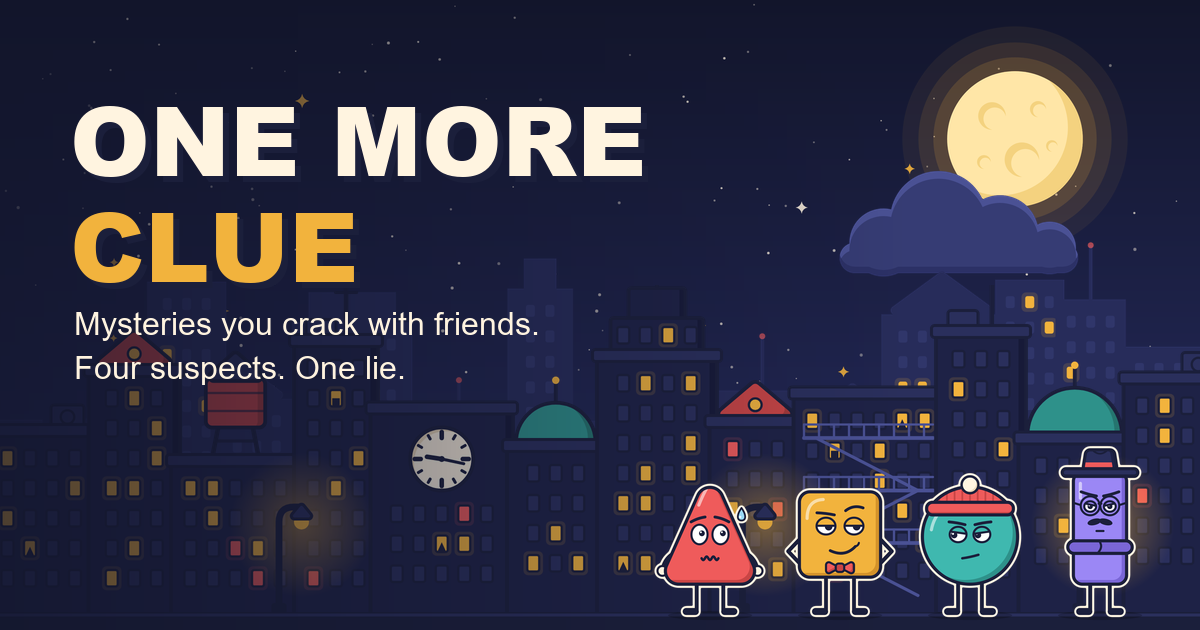
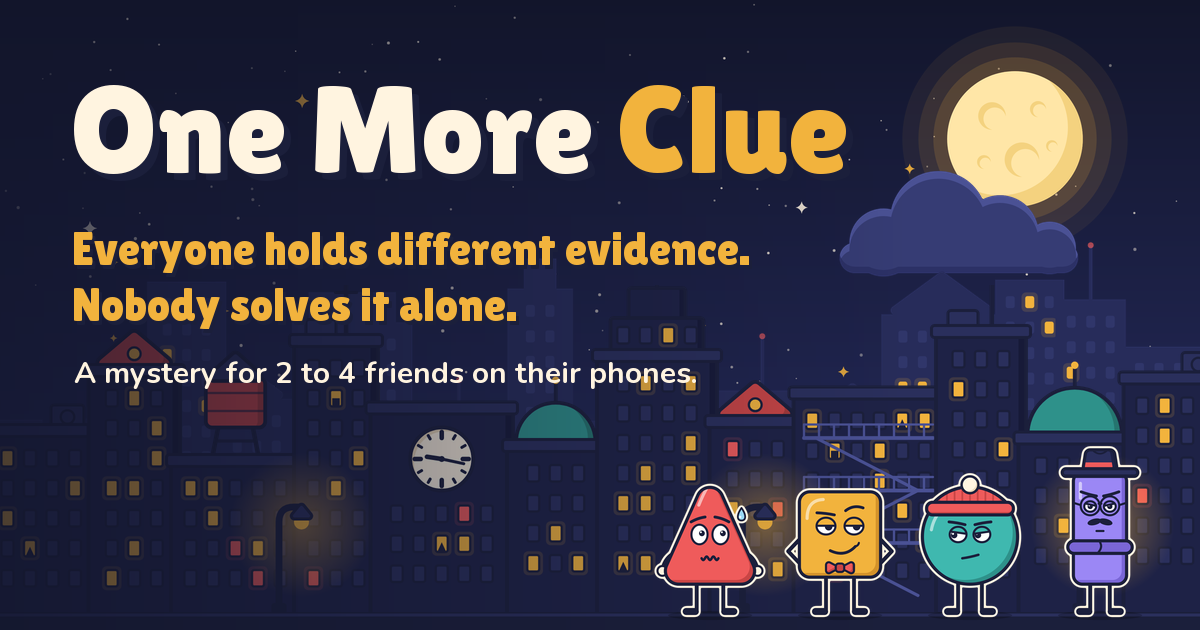
Refresh the share card, guide solo hosts, keep crawlers out of rooms
- Link-preview card: drawn in the site's own fonts (Lilita One, Nunito)
  with the current hook instead of a system font and the old tagline.
- "Play Case 001 free" now says it opens a room and to send the link
  to 1 to 3 friends; in the lobby, a host on their own is told the case
  needs a friend and offered the 30-second warm-up in a new tab.
- robots.txt disallows /new/ (its script opens a real room) and /r/.
- Phones: the moon sits small near the top instead of behind the
  tagline; header, footer, narrator, sound and camera-demo buttons are
  at least 44px tall (in px, since the root font shrinks on phones).

Changed region(s): [[0.0617, 0.1206, 0.7092, 0.3016], [0.0617, 0.3317, 0.6475, 0.5429], [0.0617, 0.573, 0.5858, 0.6333]]

diff --git a/src/components/hero/Hero.tsx b/src/components/hero/Hero.tsx
@@ -45,10 +45,14 @@ export function Hero() {
             ))}
           </ul>
 
-          <PopIn delay={1.5} className="mt-7 flex flex-wrap gap-4">
-            <Magnetic>
-              <ButtonLink href={cta.href}>{gameOpen() ? "Play Case 001 free" : cta.label}</ButtonLink>
-            </Magnetic>
+          <PopIn delay={1.5} className="mt-7 flex flex-wrap items-start gap-4">
+            {/* The note sits under the play button itself, so on phones it can't read as the warm-up's. */}
+            <div className="flex flex-col items-start gap-2">
+              <Magnetic>
+                <ButtonLink href={cta.href}>{gameOpen() ? "Play Case 001 free" : cta.label}</ButtonLink>
+              </Magnetic>
+              {gameOpen() && <p className="pl-2 text-sm font-bold text-cream/75 [text-shadow:0_2px_8px_var(--color-night)]">{hero.ctaNote}</p>}
+            </div>
             <Magnetic>
               <ButtonLink href="#mini-case" variant="secondary">
                 Try a 30-second case

diff --git a/src/components/hero/HeroFilm.tsx b/src/components/hero/HeroFilm.tsx
@@ -132,7 +132,7 @@ export function HeroFilm({ video, poster, label, className }: Props) {
         type="button"
         onClick={() => (muted || ended || waiting ? fromTheTop(true) : hush())}
         aria-pressed={!muted && !ended}
-        className="mx-auto mt-5 flex animate-rise-in items-center gap-2 rounded-full border-[0.1875rem] border-ink bg-cream px-4 py-2 text-sm font-extrabold whitespace-nowrap text-ink shadow-pop-sm transition-transform [animation-delay:1.4s] hover:-translate-y-0.5"
+        className="mx-auto mt-5 flex min-h-[44px] animate-rise-in items-center gap-2 rounded-full border-[0.1875rem] border-ink bg-cream px-4 py-2 text-sm font-extrabold whitespace-nowrap text-ink shadow-pop-sm transition-transform [animation-delay:1.4s] hover:-translate-y-0.5"
       >
         <Icon name={muted || ended ? "speakerOff" : "speaker"} className="size-4" />
         {muted || ended || waiting ? "Hear the narrator" : "Mute"}

diff --git a/src/components/home/SoundToggle.tsx b/src/components/home/SoundToggle.tsx
@@ -27,7 +27,7 @@ export function SoundToggle() {
       onClick={() => setSoundEnabled(!on)}
       aria-pressed={on}
       aria-label={on ? "Turn sound off" : "Turn sound on"}
-      className="fixed right-4 bottom-4 z-50 flex items-center gap-2 rounded-full border-[0.1875rem] border-ink bg-night/85 px-3 py-2 text-sm font-extrabold text-cream shadow-pop-sm backdrop-blur"
+      className="fixed right-4 bottom-4 z-50 flex min-h-[44px] min-w-[44px] items-center justify-center gap-2 rounded-full border-[0.1875rem] border-ink bg-night/85 px-3 py-2 text-sm font-extrabold text-cream shadow-pop-sm backdrop-blur"
       initial={{ opacity: 0, scale: 0.6 }}
       animate={{ opacity: 1, scale: 1 }}
       transition={{ delay: 2.4, type: "spring", stiffness: 260, damping: 18 }}

diff --git a/src/components/game/Lobby.tsx b/src/components/game/Lobby.tsx
@@ -148,6 +148,15 @@ export function Lobby({ view, act, busy }: { view: PlayerView; act: Act; busy: b
             </Button>
           </div>
         </div>
+        {isHost && count === 1 && (
+          <p className="mt-4 text-sm font-bold text-cream/70">
+            You need at least one friend for this case. Send them the link, and they&apos;ll appear below when they join. While you wait,{" "}
+            <a href="/#mini-case" target="_blank" rel="noopener" className="text-mustard underline decoration-2 underline-offset-4 hover:text-cream">
+              try the 30-second warm-up
+            </a>
+            .
+          </p>
+        )}
       </Panel>
 
       <Panel title={`Detectives ${count}/${view.case.maxPlayers}`}>

diff --git a/src/components/hero/CityScene.tsx b/src/components/hero/CityScene.tsx
@@ -46,7 +46,8 @@ export function CityScene() {
         <StarField />
       </Layer>
 
-      <Layer look={14} sink={0.42} className="top-[7%] right-[5%] w-[clamp(130px,19vw,300px)]">
+      {/* On phones the hero is tall, so a % top would sit behind the tagline: pin it small near the top instead. */}
+      <Layer look={14} sink={0.42} className="top-14 right-[3%] w-24 md:top-[7%] md:right-[5%] md:w-[clamp(130px,19vw,300px)]">
         {/* Moon halo breathes slowly. */}
         <m.div
           className="absolute inset-[-35%] rounded-full bg-[radial-gradient(circle,rgba(255,230,167,0.35),rgba(255,230,167,0)_65%)]"

diff --git a/src/components/sections/roles/CameraDemo.tsx b/src/components/sections/roles/CameraDemo.tsx
@@ -144,7 +144,7 @@ export function CameraDemo({ found, onFind, next }: { found: string[]; onFind: (
             type="button"
             onClick={() => setAim(null)}
             disabled={!aim}
-            className="rounded-full border-2 border-cream/40 px-3 py-1.5 text-sm font-extrabold text-cream/85 transition-colors hover:border-cream disabled:opacity-30"
+            className="min-h-[44px] rounded-full border-2 border-cream/40 px-3 py-1.5 text-sm font-extrabold text-cream/85 transition-colors hover:border-cream disabled:opacity-30"
           >
             Zoom out
           </button>

diff --git a/src/components/layout/SiteHeader.tsx b/src/components/layout/SiteHeader.tsx
@@ -17,7 +17,7 @@ export function SiteHeader() {
         <nav className="flex items-center gap-5">
           {authEnabled() && <AccountLink />}
           {gameOpen() && (
-            <Link href="/host#join" className="font-extrabold whitespace-nowrap text-cream hover:text-mustard">
+            <Link href="/host#join" className="inline-flex min-h-[44px] items-center font-extrabold whitespace-nowrap text-cream hover:text-mustard">
               <span className="sm:hidden">Join</span>
               <span className="max-sm:hidden">Have a code?</span>
             </Link>

diff --git a/src/data/hero.ts b/src/data/hero.ts
@@ -2,6 +2,8 @@ export const hero = {
   hook: "Everyone holds different evidence. Nobody solves it alone.",
   intro:
     "A mystery for 2 to 4 friends on their phones. Each of you takes a role, one find opens the next, and at the end you corner the culprit with proof.",
+  /** Under the play button, so nobody arriving alone is surprised by a lobby. */
+  ctaNote: "Opens a room for you. Send the link to 1 to 3 friends.",
   facts: ["2–4 players", "Same room or on a call", "First case free", "No app needed"],
   film: {
     video: "/landing/case-001-film.mp4",

diff --git a/src/app/robots.ts b/src/app/robots.ts
@@ -7,7 +7,8 @@ export default function robots(): MetadataRoute.Robots {
       userAgent: "*",
       allow: "/",
       // Account and auth pages carry noindex themselves; these are never useful to crawl.
-      disallow: ["/account", "/auth/", "/api/", "/reset-password"],
+      // /new/ opens a real room when its script runs, and /r/ is a private room, so crawlers stay out of both.
+      disallow: ["/account", "/auth/", "/api/", "/reset-password", "/new/", "/r/"],
     },
     host: SITE_URL,
     sitemap: `${SITE_URL}/sitemap.xml`,

diff --git a/src/components/layout/AccountLink.tsx b/src/components/layout/AccountLink.tsx
@@ -15,7 +15,7 @@ export function AccountLink() {
   useEffect(() => setSignedIn(SESSION_COOKIE.test(document.cookie)), []);
 
   return (
-    <Link href={signedIn ? "/account" : "/login"} className="font-extrabold whitespace-nowrap text-cream hover:text-mustard">
+    <Link href={signedIn ? "/account" : "/login"} className="inline-flex min-h-[44px] items-center font-extrabold whitespace-nowrap text-cream hover:text-mustard">
       {signedIn ? "Account" : "Log in"}
     </Link>
   );

diff --git a/src/components/layout/SiteFooter.tsx b/src/components/layout/SiteFooter.tsx
@@ -18,7 +18,7 @@ export function SiteFooter() {
         </Link>
         <nav className="flex flex-wrap justify-center gap-x-6 gap-y-2 font-bold text-cream/80">
           {links.map((l) => (
-            <Link key={l.href} href={l.href} className="hover:text-mustard">
+            <Link key={l.href} href={l.href} className="inline-flex min-h-[44px] items-center hover:text-mustard">
               {l.label}
             </Link>
           ))}

diff --git a/art/omc_art/social.py b/art/omc_art/social.py
@@ -1,13 +1,28 @@
 """Social share card (Open Graph / Twitter), 1200 x 630, used by the site."""
+from pathlib import Path
+
 import numpy as np
-from PIL import Image, ImageDraw
+from PIL import Image, ImageDraw, ImageFont
 
 from .export import OUT
 from .palette import CREAM, INK, MUSTARD, NIGHT
-from .preview import font, load
+from .preview import load
 from .suspects import SUSPECTS
 
 W, H = 1200, 630
+FONTS = Path(__file__).resolve().parents[1] / "fonts"
+
+
+def display(size: int) -> ImageFont.FreeTypeFont:
+    """Lilita One, the site's title font."""
+    return ImageFont.truetype(str(FONTS / "LilitaOne-Regular.ttf"), size)
+
+
+def body(size: int, weight: int) -> ImageFont.FreeTypeFont:
+    """Nunito at a given weight, the site's body font."""
+    f = ImageFont.truetype(str(FONTS / "Nunito[wght].ttf"), size)
+    f.set_variation_by_axes([weight])
+    return f
 
 
 def place(canvas: Image.Image, im: Image.Image, x: int, y: int):
@@ -33,12 +48,19 @@ def social_card() -> Image.Image:
     for i, name in enumerate(SUSPECTS):
         place(canvas, load(f"suspect-{name}-idle", 140), 640 + i * 130, 433)
 
+    # Same words and colours as the site's hero: title, then the hook, then who it's for.
     draw = ImageDraw.Draw(canvas)
-    for dx, dy, first, second in ((6, 6, INK, INK), (0, 0, CREAM, MUSTARD)):
-        draw.text((70 + dx, 70 + dy), "ONE MORE", font=font(96), fill=first)
-        draw.text((70 + dx, 176 + dy), "CLUE", font=font(96), fill=second)
-    draw.text((74, 306), "Mysteries you crack with friends.", font=font(32, bold=False), fill=CREAM)
-    draw.text((74, 350), "Four suspects. One lie.", font=font(32, bold=False), fill=CREAM)
+    title = display(124)
+    more = "One More "
+    for dx, dy, first, second in ((7, 7, INK, INK), (0, 0, CREAM, MUSTARD)):
+        draw.text((70 + dx, 58 + dy), more, font=title, fill=first)
+        draw.text((70 + dx + draw.textlength(more, font=title), 58 + dy), "Clue", font=title, fill=second)
+    hook = display(46)
+    for i, line in enumerate(("Everyone holds different evidence.", "Nobody solves it alone.")):
+        y = 222 + i * 56
+        draw.text((75, y + 4), line, font=hook, fill=INK)
+        draw.text((72, y), line, font=hook, fill=MUSTARD)
+    draw.text((74, 352), "A mystery for 2 to 4 friends on their phones.", font=body(30, 700), fill=CREAM)
     return canvas.convert("RGB")
 
 
